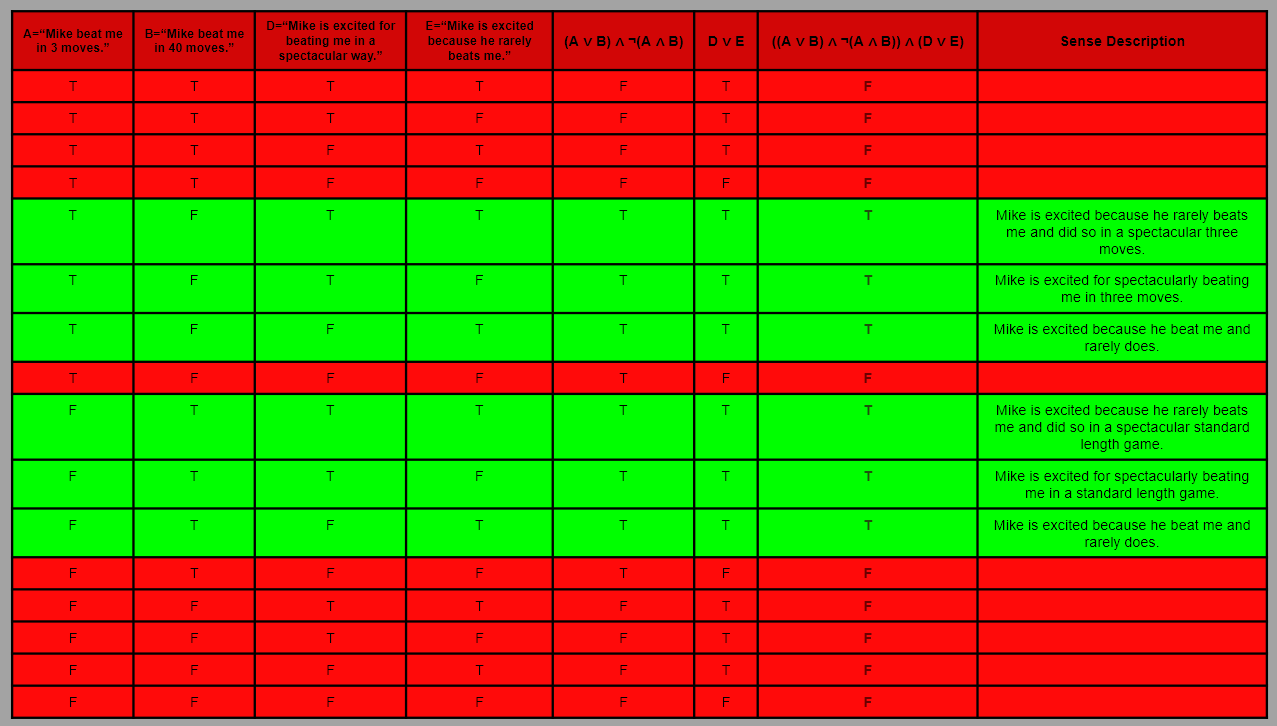
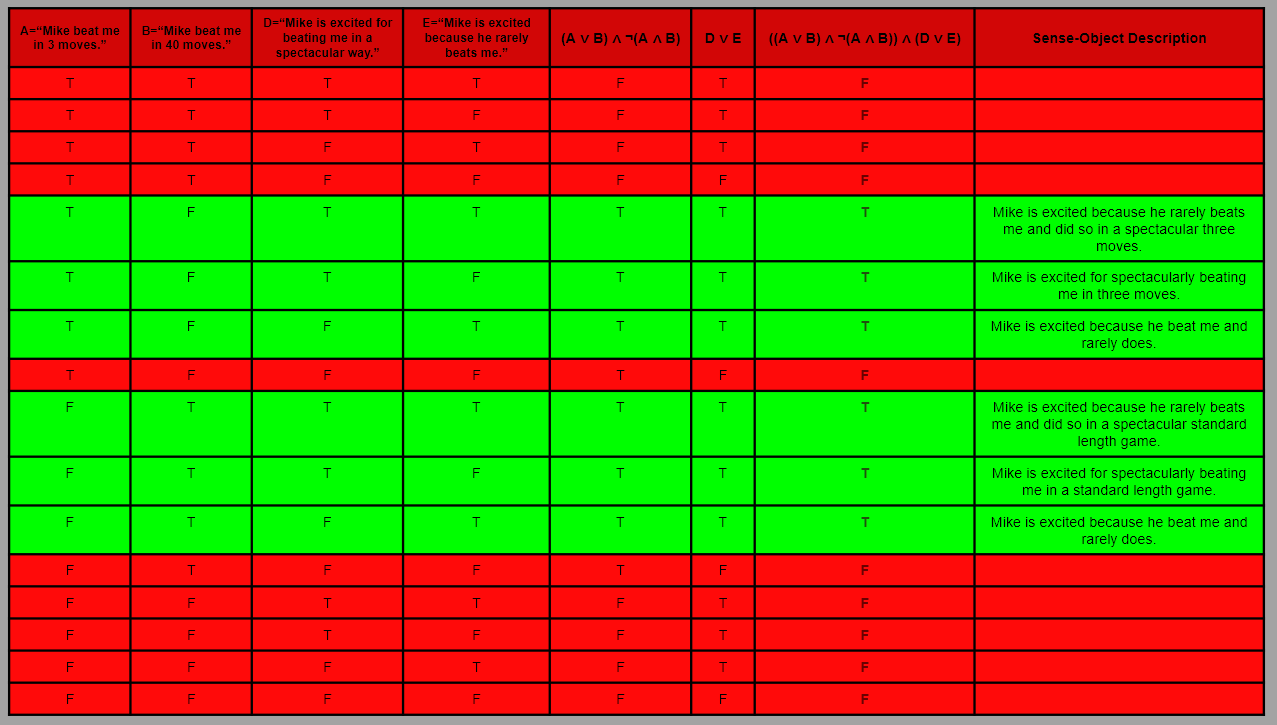
added pictures

Changed region(s): [[0.0, 0.0, 1.0, 1.0]]

diff --git a/sense_and_truth.md b/sense_and_truth.md
@@ -10,7 +10,7 @@ In some sense of the word, we may say that *truth* is simply what is the case. T
 
 The *impression* of a sense-object, i.e., the phenomenological representation of a sense-object, is relative to all objects contained by the sense it belongs to. For example, "I have cancer." and "I have the flu." are both sense-objects belonging to the sense of the proposition "I am sick." Thus, the fact that we could have cancer dampens the impression of having the flu because cancer expands the scale of sickness and makes the flu appear to be a rather minor illness by comparison. 
 
-Of course, every proposition belongs to a context which *augments* its sense. If "I am sick." is said by a 90-year-old woman, then the "I have the flu." and "I have cancer." may have the same impression, i.e., the signification of imminent death. 
+Of course, every proposition belongs to a context which *augments* its sense. If "I am sick." is said by a 90-year-old woman, then "I have the flu." and "I have cancer." may have the same impression, i.e., the signification of imminent death. 
 
 I am of the opinion that *truth* has deleteriously overshadowed the significance of *sense* throughout much philosophical discourse. Many philosophers have waged countless battles over *the* truth, but in many cases, they were actually clashing over their *sense* of the truth. Can much of philosophy be reduced to an affirmation of the fact that the appearance of an object is a function of one's orientation to it? 
 
@@ -102,11 +102,11 @@ Naturally, the context of a proposition augments its sense. Being notified of yo
 *Figure 2* is an incomplete picture of the sense and impressions of being notified at midnight that your son has been injured. Eight particular circumstances which make the proposition "Your son has been injured." true, which we may call *sense objects*, are taken to cover the *entire* sense of the proposition. This is obviously not a realistic rendering, but it is enough to provide a simple model for discussion. Each sense object is projected into two domains: the probability domain and the weight domain. Each domain can be considered to be a probability distribution, i.e., the real number assigned to all events in the domain sum to one. This is depicted by a fixed sized rectangle which is divided up between the probability, or weight, of each event. The weight of having a heart attack, drowning in a bathtub, falling off a cliff, etc., are all the same because they indicate the death of your son; however, their probabilities are different. Therefore, even though the weight of your son drowning or him having a heart attack may be the same, in the sense that they both signify his death, the *impression* they make on you within the context of being notified of him being injured at midnight is different because the probability of each sense object is vastly different. I should perhaps note that the particular weight and probabilities depicted in *figure 2* are obviously not fixed as I have portrayed them: each individual has their own probability map and weight map of sense objects contained by the sense of any given proposition which informs their impression of sense objects.   
 
 ## The Chess Game
-> A point in space is an argument place. 
->
->-Ludwig Wittgenstein, Proposition 2.0131 of "Tractatus Logicus Philosophicus"
+<center>
+<img src="img/chess_pic.jpg" alt="Three-Lego System" style="border: 2px black solid;">
+</center>
 
-Suppose I said to you "Mike beat me in a game of chess.", do you know *what* I mean or do you know what I *could* mean? One can win a game of chess in many ways: saying that Mike beat me does not say *how* he beat me. If I continued and said "He was very excited about it." do you know what this means or what it could mean? What am I saying with such vague statements? 
+Suppose I said to you "Mike beat me in a game of chess.", do you know *what* I mean or do you know what I *could* mean? One can win a game of chess in many ways: saying that Mike beat me does not say *how* he beat me. If I continued and said "He was very excited about it.", do you know what this means or what it could mean? Each statement is ambiguous and both of them said together *multiplies* the ambiguity of each statement to form the ambiguity of the joint statement.  
 
 1. "Mike beat me in a game of chess."
 2. "He was very excited about it."
@@ -134,8 +134,12 @@ We will also simplify *(2)* to *(2')*: $D ∨ E$. Where D = "Mike is excited for
 When we say *(1)* and then *(2)*, we concatenate the sentences: "Mike beat me in a game of chess. He was very excited about it." Similarly, when we say *(1')* and then *(2')*, we use the *and* logical connective to join them: $((A ∨ B) ∧ ¬(A ∧ B)) ∧ (D ∨ E)$. In words this says: "Mike beat me in 3 moves or he beat me in 40 moves, but he did not beat me in both 40 moves and 3 moves, and he is exited for beating me in a spectacular way or he is excited because he rarely beats me." 
 
 <center>
-<figure class="image">
-  <img src="img/truth_table_3.png" alt="Three-Lego System" style="border: 2px black solid;">
-  <figcaption>Figure x: Truth table of <i>(1')</i> ∧ <i>(2')</i>.</figcaption>
-</figure>
+<img src="img/truth_table_3.png" alt="Three-Lego System" style="border: 2px black solid;">
+<div>
+Figure x: Truth table of <i>(1')</i> ∧ <i>(2')</i>.</
+</div>
 </center>
+<br />
+
+As seen in *figure x*, there are *sixteen* possible combinations of the four boolean variables $ABDE$. Only six out of these sixteen possible combinations are sense-objects of *(1')* ∧ *(2')*, i.e., combinations of $ABDE$ which make *(1')* ∧ *(2')* true.  For example, $ABDE=TTFF$ is nonsense because it says that Mike beat me in 3 moves and he beat me in 40 moves -- a logical impossibility. In the case of $ABDE=FTFF$, it is not nonsense, but Mike isn't excited to beat me, so it is not a state of affairs which makes both *(1')* and *(2')* true, i.e., it is not a sense-object of *(1')* and *(2')*. On the other hand, $ABDE=TFFT$ is a sense-object of *(1')* ∧ *(2')* and it's description is listed in *figure x*.
+
